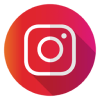
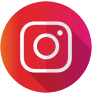
Hover
Implementado hover para estilização.

Changed region(s): [[0.0, 0.0, 1.0, 1.0], [0.3478, 0.3404, 0.6522, 0.6383]]

diff --git a/about.html b/about.html
@@ -13,7 +13,7 @@
         <a href="index.html" class="nome link_nav">
             Joao Dev
         </a>
-        <div>
+        <div class="nav">
             <a href="index.html" class="link_nav home">
                 Home
             </a>
@@ -33,7 +33,7 @@
             <div class="container_historico">
                 <div class="container_historico_models">
                     <div class="model">
-                        <img src="./styles/youtube_about.png" alt="Logo Youtube">
+                        <img src="./styles/youtube_about.png" alt="Logo Youtube" class="img_youtube">
                         <div class="model_youtube_conteudo">
                             <p class="subtitulo">
                                 Youtube Channel
@@ -45,7 +45,7 @@
                         </div>
                     </div>
                     <div class="model">
-                        <img src="./styles/Instagram 1.png" alt="Logo Youtube">
+                        <img src="./styles/Instagram 1.png" alt="Logo Instagram" class="img_model">
                         <div class="model_youtube_conteudo">
                             <p class="subtitulo">
                                 Page Instagram
@@ -60,7 +60,7 @@
                 <div class="container_historico_models segundo">
                     <div class="container_historico_models">
                         <div class="model">
-                            <img src="./styles/Unilasalle 1.png" alt="Logo Youtube">
+                            <img src="./styles/Unilasalle 1.png" alt="Logo Collegee" class="img_model">
                             <div class="model_youtube_conteudo">
                                 <p class="subtitulo">
                                     College Monitor
@@ -72,7 +72,7 @@
                             </div>
                         </div>
                         <div class="model">
-                            <img src="./styles/beca 1.png" alt="Logo Youtube">
+                            <img src="./styles/beca 1.png" alt="Logo beca" class="img_beca">
                             <div class="model_youtube_conteudo">
                                 <p class="subtitulo">
                                     College
@@ -86,7 +86,7 @@
                 </div>
             </div>
         </div>
-        <p class="titulo">
+        <p class="titulo titulo_about">
             In summary...<br>I <span class="texto_destaque">love</span> programming
         </p>
         <div class="imagens_programando">

diff --git a/styles/style.css b/styles/style.css
@@ -8,7 +8,7 @@
     --tamanho-fonte-titulo: 3rem;
     --tamanho-fonte-subtitulo: 2rem;
     --tamanho-fonte-footer: 1rem;
-    --tamanho_imagens_projetos:30rem;
+    --tamanho_imagens_projetos:95%;
 }
 
 *
@@ -37,12 +37,23 @@ header div{
     display: flex;
     gap: 2rem;
 }
+.nome:hover{
+    color: var(--cor-texto-secundaria);
+}
 
 .link_nav{
     text-decoration: none;
     font-size: var(--tamanho-fonte-textos);
     color: var(--cor-texto-primaria);
     font-weight: bold;
+    transition: 0.3s all ease;
+}
+.nav:hover a{
+    color: #585858;
+}
+.nav:hover a:hover{
+    color: var(--cor-texto-secundaria);
+    box-shadow: 0 2px 0 0 currentColor;
 }
 
 .nome{
@@ -78,6 +89,8 @@ header div{
 .foto_pessoal{
     border: solid 0.3rem var(--cor-texto-secundaria);
     border-radius: 100%;
+    width: 20rem;
+    height: 10rem;
 }
 .subtitulo{
     font-size: var(--tamanho-fonte-subtitulo);
@@ -97,6 +110,15 @@ header div{
     gap: 1.5rem;
     padding-top: 1.2rem;
     align-items: center;
+    transition: 0.3s all ease;
+}
+.links_link:hover a{
+    opacity: 0.3;
+}
+.links_link:hover a:hover{
+    box-shadow: 0 2px 0 0 currentColor;
+    opacity: 1;
+    color: #585858;
 }
 .footer{
     display: flex;
@@ -132,11 +154,12 @@ header div{
     padding: 4% 7% 0 0;
 }
 .projetos_imagens{
-    max-width: var(--tamanho_imagens_projetos);
+    width: var(--tamanho_imagens_projetos);
     border-right: 25px solid rgba(189, 93, 185, 0.2); 
     border-top: 35px solid rgba(189, 93, 185, 0.2);
     border-left: 25px solid rgba(189, 93, 185, 0.2);
     box-shadow: 5px 5px 10px rgba(0, 0, 0, 0.5);
+    height: auto;
 }
 .conteudo_projetos{
     max-width: 40%;
@@ -155,6 +178,11 @@ header div{
     border: 0.3px solid black;
     margin-top: 5%;
     justify-content: center;
+    transition: ease-out 0.5s;
+}
+.link_about:hover{
+    box-shadow: inset 0 0 0 20px #777476;
+    border: 0.3px solid var(--cor-texto-secundaria);
 }
 
 .container_projetos{
@@ -206,4 +234,16 @@ header div{
     border-left: 20px solid rgba(189, 93, 185, 0.2);
     border-bottom: 10px solid rgba(189, 93, 185, 0.2);
     box-shadow: 5px 5px 10px rgba(0, 0, 0, 0.5);
+    height: auto;
+    width: 50%;
+}
+.titulo_about{
+    padding-top: 3%;
+}
+
+@media(max-width: 900px)
+{
+    .conteudo_principal{
+        flex-direction: column;
+    }
 }

diff --git a/portfolio.html b/portfolio.html
@@ -13,7 +13,7 @@
         <a href="index.html" class="nome link_nav">
             Joao Dev
         </a>
-        <div>
+        <div class="nav">
             <a href="index.html" class="link_nav home">
                 Home
             </a>
@@ -49,7 +49,7 @@
                     </p>
                     <a href="https://github.com/jgabryeldev/CRUD_com_interface_em_GTK" class="link_about" 
                     rel="noopener" target="_blank">
-                        <p>Acess</p>
+                        <p>Access</p>
                         <img src="./styles/github.png" alt="logo github">
                     </a>
                 </div>
@@ -72,7 +72,7 @@
                     </p>
                     <a href="https://github.com/jgabryeldev/aparecida-nutricao" class="link_about" 
                     rel="noopener" target="_blank">
-                        <p>Acess</p>
+                        <p>Access</p>
                         <img src="./styles/github.png" alt="logo github">
                     </a>
                 </div>
@@ -94,7 +94,7 @@
                     </p>
                     <a href="https://instalacenter.vercel.app/" class="link_about" 
                     rel="noopener" target="_blank">
-                        <p>Acess</p>
+                        <p>Access</p>
                         <img src="./styles/github.png" alt="logo github">
                     </a>
                 </div>

diff --git a/index.html b/index.html
@@ -13,7 +13,7 @@
         <a href="index.html" class="nome link_nav">
             Joao Dev
         </a>
-        <div>
+        <div class="nav">
             <a href="index.html" class="link_nav home">
                 Home
             </a>
